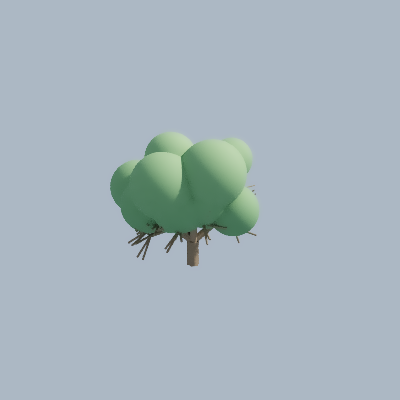
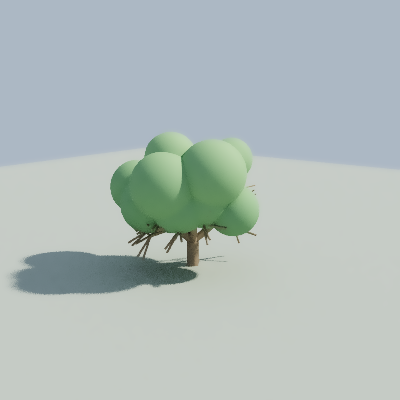
web: toolbar top-right + hide on menu, pause sim off-FPS, walkable showcase scenes
UI:
- Move the play/stop + menu icon toolbar to the top-right (over where the
  panel slides in) and hide it while the panel is open; the panel's own
  close button restores it.
- Pause the simulation while the debug panel is open or the player isn't in
  FPS mode (mouse captured on desktop / playing on touch). Rendering and the
  free-look camera keep running (update() uses real frame delta); only the
  fixed-step gameplay/physics freezes. New rt_web_pause hook ->
  SimClock::setPaused (exported in CMake).

Gameplay:
- Give the three floorless showcase scenes (lsystem_tree, script_block,
  script_brickhouse) a static collidable ground + a player spawn so Play no
  longer drops you through the floor. Re-baked their thumbnails (now grounded).
  The two Lua terrain scenes (script_terrain*) return a visual-only mesh with
  no collider and have real relief, so a flat floor would look wrong — left
  view-only; the auto-respawn safety net covers an accidental Play.

Verified: toolbar hides/restores with the panel, pause hook present, the
three fixed levels load with ground and no validation errors.

Claude-Session: https://claude.ai/code/session_01732DrHTJPf7NZaZxdymFuZ

diff --git a/web/viewer.html b/web/viewer.html
@@ -30,8 +30,9 @@
       z-index: 10; display: none; }
     #log .e { color: #f88; }
 
-    /* Top-left icon toolbar: play/stop + menu. */
-    #toolbar { position: fixed; top: 10px; left: 10px; display: flex; gap: 8px; z-index: 22; }
+    /* Top-right icon toolbar: play/stop + menu. Sits over where the panel slides
+       in, so it's hidden while the panel is open. */
+    #toolbar { position: fixed; top: 10px; right: 10px; display: flex; gap: 8px; z-index: 22; }
     .iconbtn { width: 44px; height: 44px; display: grid; place-items: center; cursor: pointer;
       border-radius: 11px; border: 1px solid rgba(90,200,255,.45); background: rgba(16,28,40,.72);
       color: #cfefff; -webkit-tap-highlight-color: transparent; padding: 0; }
@@ -290,6 +291,7 @@
           if (playing) showHint(locked ? 'Mouse captured — press Esc to release'
                                         : 'Click the view to look around');
           if (!locked) button(2, 0);   // don't leave fire stuck held on release
+          updatePause();               // releasing the mouse pauses; capturing resumes
         });
         canvas.addEventListener('mousedown', (e) => {
           if (playing) {
@@ -309,9 +311,18 @@
       }
 
       // --- toolbar (play/stop + menu) + debug panel ---
+      // Pause the sim while the panel is open or the player isn't actively in FPS
+      // mode (mouse captured on desktop / playing on touch). Rendering + the
+      // free-look camera keep running; only fixed-step gameplay/physics freezes.
+      const panelOpen = () => $('dbg').style.display !== 'none';
+      const inFps = () => playing && (hasTouch || locked);
+      const updatePause = () => { mod._rt_web_pause && mod._rt_web_pause((panelOpen() || !inFps()) ? 1 : 0); };
+      const openPanel = () => { $('dbg').style.display = 'block'; $('toolbar').style.display = 'none'; updatePause(); };
+      const closePanel = () => { $('dbg').style.display = 'none'; $('toolbar').style.display = 'flex'; updatePause(); };
+
       $('toolbar').style.display = 'flex';
-      $('menuBtn').onclick = () => { $('dbg').style.display = 'block'; };
-      $('dbgClose').onclick = () => { $('dbg').style.display = 'none'; };
+      $('menuBtn').onclick = openPanel;
+      $('dbgClose').onclick = closePanel;
 
       // Play/Edit toggle: enter ArenaState (gun + Jolt physics) or back to the
       // free-look editor. Shared by the toolbar icon and the panel row; on desktop
@@ -334,11 +345,13 @@
           else { document.exitPointerLock && document.exitPointerLock(); showHint(''); }
         }
         log(on ? 'play mode' : 'editor mode');
+        updatePause();
       };
       playBtn.onclick = () => setPlay(!playing);
       panelPlay.onclick = () => setPlay(!playing);
       // Draw gun: taps the slot-2 weapon key the gun script equips on.
       $('drawgun').onclick = () => tapKey(8);
+      updatePause();   // editor / not-playing starts paused (free-look still works)
 
       // --- World: day/night cycle (drives the sun + procedural sky) ---
       const env = (id, v) => mod._rt_web_env(id, v);

diff --git a/src/web_main.cpp b/src/web_main.cpp
@@ -68,6 +68,13 @@ EMSCRIPTEN_KEEPALIVE void rt_web_camera(int free) {
     g_app.settings().setBool("cameraGrounded", free == 0);
 }
 
+// Pause/resume the simulation clock. The page pauses while the debug panel is
+// open or the mouse isn't captured (not actively playing), so physics/gameplay
+// freeze instead of running unattended. Rendering continues either way.
+EMSCRIPTEN_KEEPALIVE void rt_web_pause(int paused) {
+    g_app.simClock().setPaused(paused != 0);
+}
+
 EMSCRIPTEN_KEEPALIVE void rt_web_flag(int id, int val) {
     Renderer& r = g_app.renderer();
     switch (id) {
